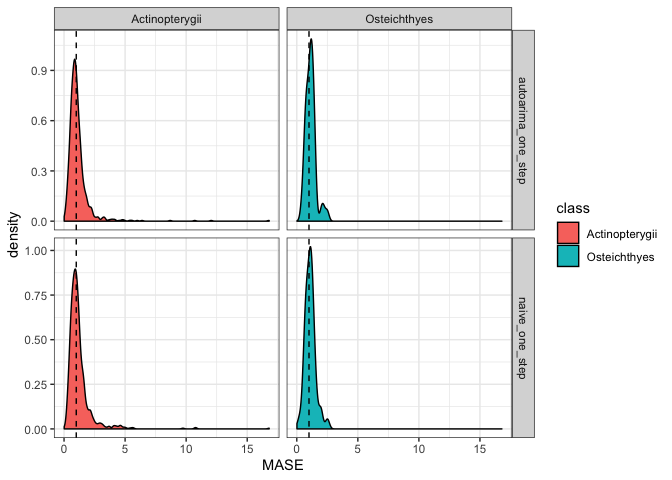
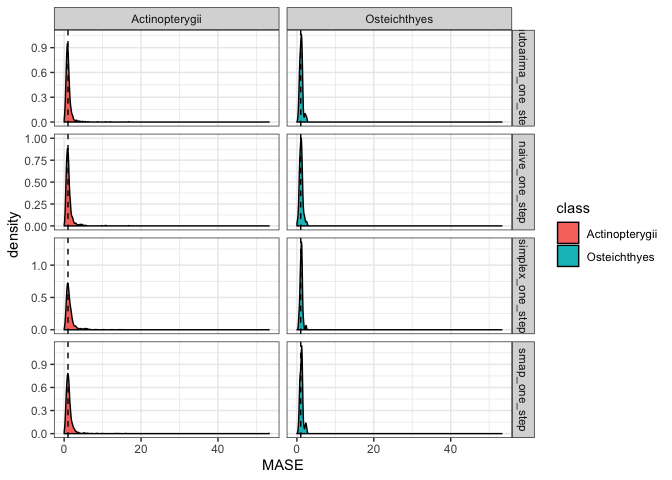
include EDM forecast results

Changed region(s): [[0.0312, 0.0625, 0.8125, 0.9375], [0.6562, 0.5938, 0.6875, 0.625]]

diff --git a/reports/forecasting_comparison.md b/reports/forecasting_comparison.md
@@ -20,7 +20,7 @@ loadd(full_results, cache = cache)
 full_results
 ```
 
-    ## # A tibble: 14 x 5
+    ## # A tibble: 28 x 5
     ##    results          metadata       dataset           method        args    
     ##    <list>           <list>         <chr>             <chr>         <list>  
     ##  1 <df[,6] [1,770 … <named list [… data_salmon       autoarima_on… <list […
@@ -33,12 +33,9 @@ full_results
     ##  8 <df[,5] [1,770 … <named list [… data_salmon       naive_one_st… <list […
     ##  9 <df[,5] [4,175 … <named list [… data_RAMlegacy_c… naive_one_st… <list […
     ## 10 <df[,5] [3,587 … <named list [… data_RAMlegacy_s… naive_one_st… <list […
-    ## 11 <df[,5] [3,219 … <named list [… data_RAMlegacy_r… naive_one_st… <list […
-    ## 12 <df[,5] [1,083 … <named list [… data_Dorner2008   naive_one_st… <list […
-    ## 13 <df[,5] [336 × … <named list [… data_SprSum_Col_… naive_one_st… <list […
-    ## 14 <df[,5] [299 × … <named list [… data_PugSound_Ch… naive_one_st… <list […
+    ## # … with 18 more rows
 
-`full_results` is a tibble with 14 rows, corresponding to the
+`full_results` is a tibble with 28 rows, corresponding to the
 combinations of different `dataset` and `method`.
 
 First, let’s do some cleaning of the dataset names:
@@ -152,7 +149,7 @@ ggplot(data = summary_results,
     theme_bw()
 ```
 
-    ## Warning: Removed 24 rows containing non-finite values (stat_density).
+    ## Warning: Removed 48 rows containing non-finite values (stat_density).
 
 ![](forecasting_comparison_files/figure-gfm/unnamed-chunk-7-1.png)<!-- -->
 
